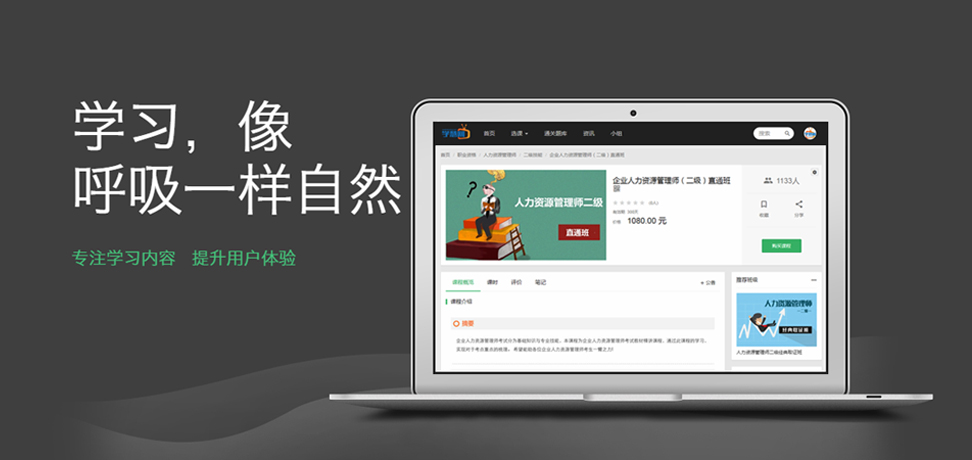
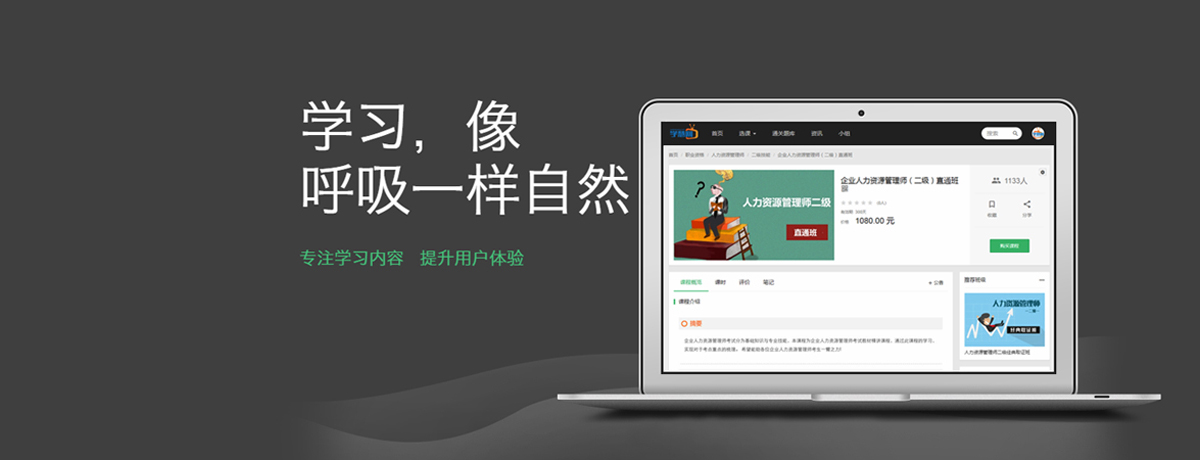
geng

Changed region(s): [[0.0617, 0.213, 0.9877, 0.913], [0.5864, 0.8522, 0.7716, 0.8826], [0.1235, 0.9435, 0.2469, 1.0]]

diff --git a/xuehuiwang/css/main.css b/xuehuiwang/css/main.css
@@ -261,7 +261,7 @@
     width: 972px;
     height: 460px;
     position: relative;
-    left: 228px;
+    left: 0;
 }
 
 .slide {
@@ -279,7 +279,7 @@
 }
 
 .banner .slide li a img {
-    width: 972px;
+    width: 1200px;
     height: 460px;
 }
 
@@ -293,7 +293,7 @@
     min-width: 37px;
     z-index: 10;
     right: 50%;
-    margin-right: -65px;
+    margin-right: -260px;
 }
 
 .banner .slider-nav li {
@@ -312,7 +312,7 @@
 
 .banner .arrow li {
     position: absolute;
-    left: 50%;
+    left:50%;
     top: 50%;
     opacity: 0;
     width: 41px;
@@ -324,13 +324,13 @@
 
 .banner .arrow li.prev {
     background-position: 0 -97px;
-    margin-left: -486px;
+    margin-left: -258px;
     margin-top: -35px;
 }
 
 .banner .arrow li.next {
     background-position: -70px -97px;
-    margin-left: 445px;
+    margin-left: 672px;
     margin-top: -35px;
 }
 
@@ -362,6 +362,9 @@
     padding-bottom: 5px;
     padding-top: 5px;
     padding-right: 1px;
+}
+.quick_nav li span{
+    font-size: 12px
 }
 .quick_nav li:before, .quick_nav li:after {
     position: absolute;

diff --git a/xuehuiwang/index.html b/xuehuiwang/index.html
@@ -503,17 +503,9 @@
                                 </a>
                             </div>
                         </li>
-                        <li>
-                            <div class="alide auto">
-                                <a href="#" class="sel hxtj" rel="nofollow" target="_blank">
-                                    <img class="lazy" data-original="images/banner5.jpg" alt="" data-color="" src="images/banner5.jpg">
-                                </a>
-                            </div>
-                        </li>
                     </ul>
                     <ul class="slider-nav">
                         <li class="active"></li>
-                        <li></li>
                         <li></li>
                         <li></li>
                         <li></li>
